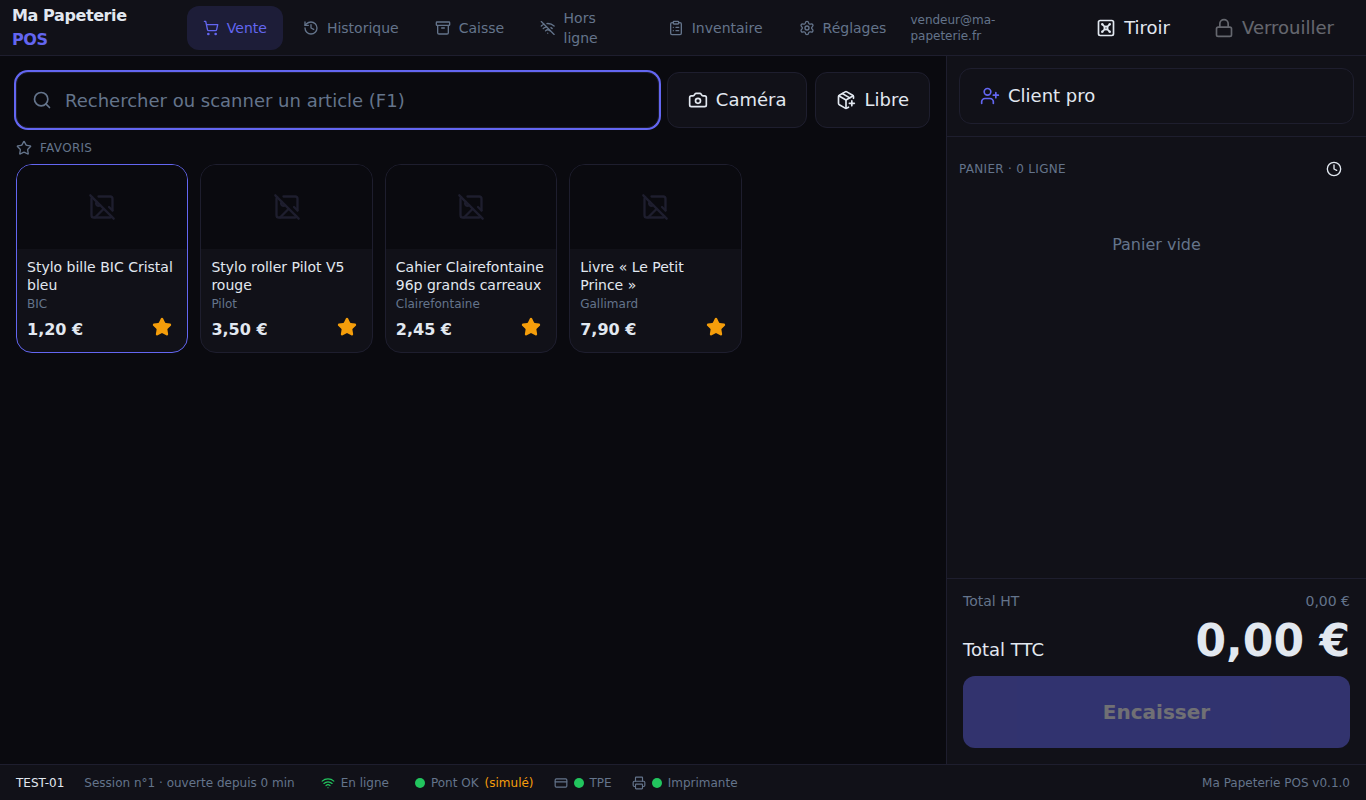
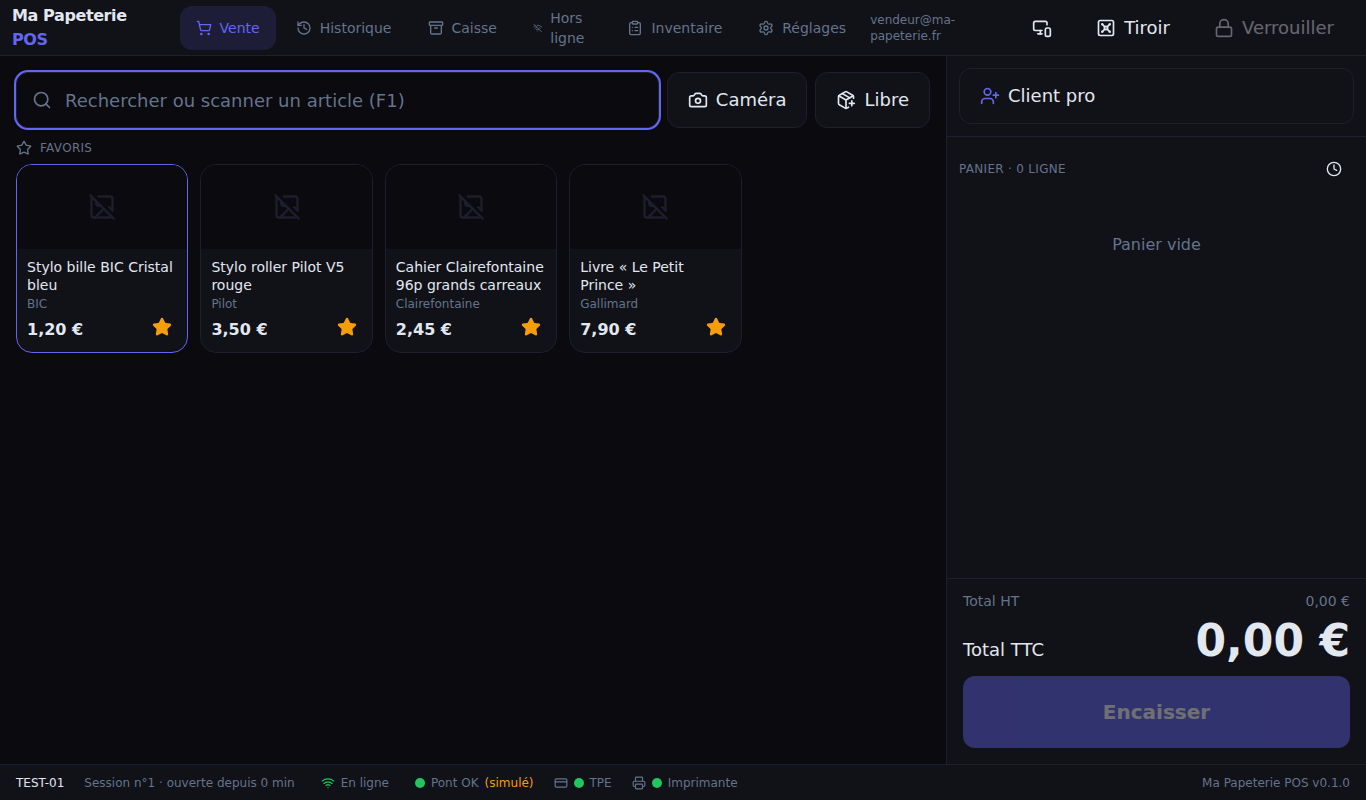
docs(vente): SPEC §12.6-12.8 (remise globale, clôture Z, écran client) et captures
Claude-Session: https://claude.ai/code/session_01JrTfx933DS97GdfCrykyvh

Changed region(s): [[0.4612, 0.0, 0.7379, 0.0625], [0.123, 0.0, 0.369, 0.0625], [0.3997, 0.0, 0.4305, 0.0625]]

diff --git a/apps/pos/e2e/demo-screenshots.spec.ts b/apps/pos/e2e/demo-screenshots.spec.ts
@@ -107,3 +107,53 @@ test('captures : favoris → panier → paiement → succès → attente → rep
   await expect(page.getByTestId('draft-banner')).toBeVisible();
   await shot(page, '8-reprise');
 });
+
+test('captures : remise globale, écran client, clôture bloquée', async ({ page, context }) => {
+  await resetStorage(page);
+  await login(page);
+  await ensureSessionOpen(page);
+  const display = await context.newPage();
+  await display.setViewportSize({ width: 1366, height: 800 });
+  await display.goto('/display');
+  await page.bringToFront();
+
+  await add(page, '3* cahier', /Clairefontaine/);
+  await add(page, 'stylo', /Pilot V5/);
+  await add(page, 'petit prince', /Petit Prince/);
+  await page.getByTestId('product-search').fill('');
+  await page.keyboard.press('F6');
+  await page.getByTestId('global-discount-input').fill('10');
+  await shot(page, '9-remise-globale-dialogue');
+  await page.getByTestId('apply-global-discount').click();
+  await shot(page, '10-remise-globale-panier');
+  await expect(display.getByTestId('display-total')).toBeVisible();
+  await shot(display, '11-ecran-client-panier');
+
+  await page.getByTestId('checkout-button').click();
+  await page.getByTestId('pay-cash').click();
+  await page.getByTestId('cash-shortcut-5000').click();
+  await page.getByTestId('cash-confirm').click();
+  await page.getByTestId('validate-payment').click();
+  await expect(display.getByTestId('display-change')).toBeVisible();
+  await shot(display, '12-ecran-client-rendu');
+  await page.getByTestId('close-success').click();
+
+  // Encaissement interrompu (CB débitée) : le Z est bloqué.
+  await add(page, 'cahier', /Clairefontaine/);
+  await page.getByTestId('checkout-button').click();
+  await page.getByTestId('pay-cb').click();
+  await expect(page.getByTestId('payment-list')).toContainText('Carte bancaire');
+  await page.reload();
+  await page.getByTestId('clear-cart').click();
+  await page.getByTestId('confirm-action').click();
+  await add(page, 'stylo', /Lamy/);
+  await page.getByTestId('park-cart').click();
+  await page
+    .getByRole('navigation', { name: 'Navigation principale' })
+    .getByRole('link', { name: 'Caisse' })
+    .click();
+  await expect(page.getByTestId('closing-draft-blocked')).toBeVisible();
+  await expect(page.getByText('Ticket mis en attente').first()).toBeHidden({ timeout: 15_000 });
+  await expect(page.getByText('Stock boutique à zéro').first()).toBeHidden({ timeout: 15_000 });
+  await shot(page, '13-cloture-bloquee');
+});

diff --git a/docs/SPEC.md b/docs/SPEC.md
@@ -255,14 +255,15 @@ hash.
 
 ### 12.3 Événements JET ajoutés (`pos_log_event`, type libre)
 
-| Événement                                       | Déclencheur                          | Payload                                                                  |
-| ----------------------------------------------- | ------------------------------------ | ------------------------------------------------------------------------ |
-| `line_discount`                                 | remise % modifiée                    | `product_id, label, qty, unit_price_ttc_cents, from_percent, to_percent` |
-| `price_override`                                | prix unitaire forcé (hors devis)     | `product_id, label, qty, from_cents, to_cents, public_price_ttc_cents`   |
-| `qty_decreased`                                 | baisse de quantité (> 0)             | `product_id, label, from_qty, to_qty, unit_price_ttc_cents`              |
-| `sale_parked` / `sale_recalled`                 | mise en attente / rappel             | `parked_id, lines, total_ttc_cents, …`                                   |
-| `sale_abandoned` (`reason: 'parked_discarded'`) | suppression d'un ticket en attente   | `lines, total_ttc_cents, quote_id`                                       |
-| `checkout_draft_abandoned`                      | abandon d'un encaissement interrompu | brouillon complet + `captured_cents`                                     |
+| Événement                                       | Déclencheur                          | Payload                                                                          |
+| ----------------------------------------------- | ------------------------------------ | -------------------------------------------------------------------------------- |
+| `line_discount`                                 | remise % modifiée                    | `product_id, label, qty, unit_price_ttc_cents, from_percent, to_percent`         |
+| `price_override`                                | prix unitaire forcé (hors devis)     | `product_id, label, qty, from_cents, to_cents, public_price_ttc_cents`           |
+| `qty_decreased`                                 | baisse de quantité (> 0)             | `product_id, label, from_qty, to_qty, unit_price_ttc_cents`                      |
+| `sale_parked` / `sale_recalled`                 | mise en attente / rappel             | `parked_id, lines, total_ttc_cents, …`                                           |
+| `sale_abandoned` (`reason: 'parked_discarded'`) | suppression d'un ticket en attente   | `lines, total_ttc_cents, quote_id`                                               |
+| `checkout_draft_abandoned`                      | abandon d'un encaissement interrompu | brouillon complet + `captured_cents`                                             |
+| `global_discount`                               | remise globale modifiée              | `from_percent, to_percent, lines, total_ttc_before_cents, total_ttc_after_cents` |
 
 ### 12.4 Règles de saisie
 
@@ -289,8 +290,55 @@ hash.
 | F4                          | client pro                                   |
 | F8                          | mise en attente                              |
 | F9                          | tickets en attente                           |
+| F6                          | remise globale                               |
 | F12 ou Ctrl+Entrée          | encaisser                                    |
 | Suppr (recherche vide)      | supprimer la dernière ligne                  |
 | 1 à 5 (feuille de paiement) | CB, espèces, chèque, chèque cadeau, virement |
 
 Le viewport des notifications passe de F8 à Alt+N.
+
+### 12.6 Remise globale (PWA uniquement, sans changement serveur)
+
+Remise globale **en %** (0 à 100, 2 décimales). Chaque ligne est vendue avec
+`discount_percent = max(remise de la ligne, remise globale)`, sans cumul. Ce % effectif est envoyé
+tel quel dans le payload : il est haché, recalculé à l'identique par `pos_compute_cart` et imprimé
+sur le ticket. Il n'y a donc aucun changement SQL, zod ou hash, et les remboursements recopient le
+% stocké. La remise globale n'est jamais écrite dans les lignes du panier (la fusion des scans
+n'est pas modifiée). Elle est persistée avec le panier et transportée par les tickets en attente
+et le brouillon d'encaissement. Elle revient à 0 au vidage du panier et est gelée pendant
+l'encaissement. Le plafond `maxDiscountPercent` s'y applique, avec une dérogation administrateur.
+
+Une remise globale **en euros** n'est pas proposée : elle ne peut pas être exacte ligne par ligne
+(arrondi unitaire, SPEC §2). La rendre exacte exigerait une ligne négative, refusée aujourd'hui
+par le SQL (`unit_price_ttc_cents ≥ 0`, `qty > 0` en vente), par zod et par le contrôle des
+remboursements.
+
+### 12.7 Clôture Z : garde-fous
+
+| Situation                                                        | Effet                                                                        |
+| ---------------------------------------------------------------- | ---------------------------------------------------------------------------- |
+| Brouillon d'encaissement présent (CB débitée ou espèces saisies) | **Z bloqué** (`closing-draft-blocked`) : reprendre ou abandonner (§12.1)     |
+| Tickets en attente                                               | avertissement (`closing-parked-warning`) ; ils restent en attente après le Z |
+| Panier non vide, hors ligne, file hors ligne non vide            | Z bloqué (inchangé)                                                          |
+
+Le brouillon enregistre la `session_id` dans laquelle l'encaissement a commencé, pour que le
+message de blocage l'indique.
+
+### 12.8 Écran client (`/display`)
+
+Route de premier niveau, **hors authentification** : elle ne démarre ni le runtime hors ligne ni
+le verrouillage, et ne lit jamais Supabase. La caisse diffuse son état sur
+`BroadcastChannel('pos-display')` (même origine, même navigateur). Messages :
+
+- `idle` : accueil ;
+- `cart` : lignes au % effectif et total ;
+- `payment` : total, déjà payé, reste ;
+- `sale_completed` : total, rendu, n° de ticket, affiché 8 s ; seul un nouveau panier
+  l'interrompt ;
+- `hello` : un écran ouvert en cours de vente reçoit le dernier état.
+
+Données diffusées : libellés, quantités, prix, remises, totaux et au plus le `display_name` du
+client pro. Jamais de SIRET, de TVA intracommunautaire ni de secret. Sans réponse de la caisse en
+1 s, l'écran lit une fois le panier persisté (`pos.cart.v1`). Pour l'ouvrir : bouton
+« Écran client » dans l'en-tête (`window.open`), puis placer la fenêtre sur le second écran et
+appuyer sur F11.
